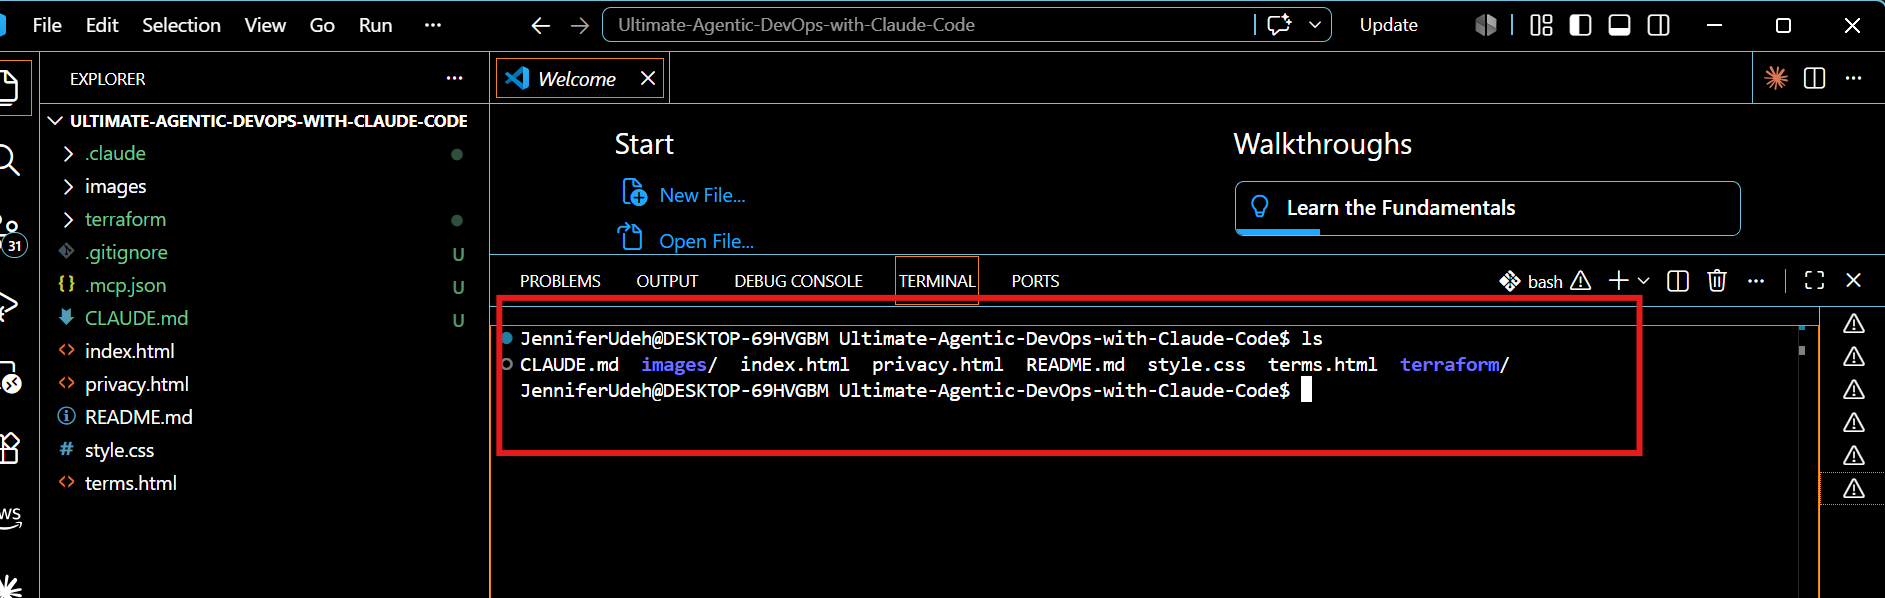
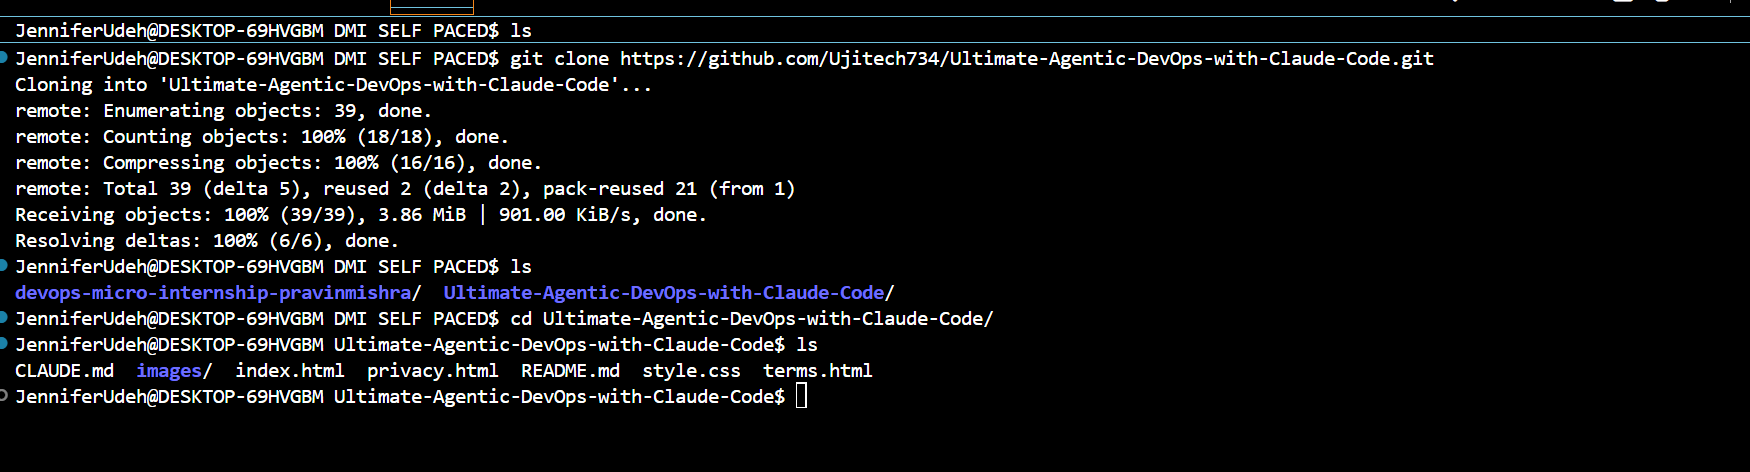
week-02-assignment-2-completed

diff --git a/week-02-agentic-ai/assignment-02-claude-md.md b/week-02-agentic-ai/assignment-02-claude-md.md
@@ -16,11 +16,21 @@ In this assignment, you will create and customize a `CLAUDE.md` file for your pr
 
 Capture Claude’s response before `CLAUDE.md` exists in the project to establish a baseline behavior.
 
-### Evidence
+Before CLAUDE.md file was created. the project only contained the HTML, CSS, and supporting files, Claude provided a generic explanation of the project and a general deployment recommendation without any project-specific context.
+
+What I learned: I learned that without project-specific instructions, Claude relies only on the files it can see and provides generic responses based on the available project structure.
 
 #### Screenshot 1 — Claude’s generic response before CLAUDE.md exists (project contains only `index.html`, `style.css`, `images/`, `README.MD`, `privacy.html`, `terms.html`)
 
-Add your screenshot here.
+![week 2](screenshots/assignment-2-task-1.png).
+
+![week 2](screenshots/assignment-2-task-1-launch-claude.png).
+
+![week 2](screenshots/assignment-2-task-1-response.png).
+
+![week 2](screenshots/assignment-2-task-1-response-2.png).
+
+![week 2](screenshots/assignment-2-task-1-response-3.png).
 
 ---
 
@@ -30,11 +40,19 @@ Add your screenshot here.
 
 Generate an initial `CLAUDE.md` file using the `/init` command and review the auto-generated content.
 
-### Evidence
+The CLAUDE.md file was generated after running the /init command. Claude scanned the project and created the initial project instructions, which I later customized.
+
+What I learned: I learned that the /init command automatically generates a CLAUDE.md file by analyzing the project, providing a solid starting point that can be tailored to the project's requirements.
 
 #### Screenshot 2 — The auto-generated CLAUDE.md open in VS Code showing its content
 
-Add your screenshot here.
+![week 2](screenshots/assignmen-2-task-2-claude-init.png).
+
+![week 2](screenshots/assignment-2-task-2-claude-response.png).
+
+![week 2](screenshots/assignment-2-task-2-claude-response2.png).
+
+![week 2](screenshots/assignment-2-task-2-claude-response3.png).
 
 ---
 
@@ -44,11 +62,13 @@ Add your screenshot here.
 
 Update the generated `CLAUDE.md` file by adding project-specific instructions across all required sections.
 
-### Evidence
+The CLAUDE.md file was updated and customised which includes the Project Overview, Architecture, Commands, Conventions, and Safety sections with project-specific instructions.
+
+What I learned: I learned that customizing CLAUDE.md allows me to define how Claude should understand the project, recommend deployment strategies, follow development conventions, and respect project-specific constraints.
 
 #### Screenshot 3 — Your customized CLAUDE.md in VS Code showing all 5 sections (scroll to show the full file)
 
-Add your screenshot here.
+![week 2](screenshots/assignment-2-task-3-updated-claude.md-file.png).
 
 ---
 
@@ -58,18 +78,25 @@ Add your screenshot here.
 
 Verify that Claude’s behavior changes after adding `CLAUDE.md` by running a new session and comparing responses before and after context is applied.
 
-### Evidence
+After updating the Claude.md file, Claude read the customized CLAUDE.md and changed its behaviour accordingly. Instead of giving a generic response, it identified the project as a static HTML/CSS portfolio website and recommended deployment using Amazon S3, CloudFront, Terraform, and GitHub Actions, as defined in the project instructions.
+
+What I learned: I learned that CLAUDE.md acts as persistent project context, enabling Claude to provide responses that are more accurate, relevant, and aligned with the project's architecture and deployment workflow.
 
 #### Screenshot 4 — Claude's specific, detailed answer after reading CLAUDE.md (Claude mentioning S3, CloudFront and Terraform)
 
-Add your screenshot here.
+![week 2](screenshots/assignment-2-task-4-claude-response.png).
+
+![week 2](screenshots/assignment-2-task-4-claude-response2.png).
 
 ---
 
 #### Screenshot 5 — Claude refusing or warning against adding React because of the "No JavaScript" convention defined in CLAUDE.md
 
-Add your screenshot here.
+![week 2](screenshots/assignment-2-task-5-test-response.png)
 
+This screenshot shows Claude following the project conventions defined in CLAUDE.md. When asked to add a React component to the homepage, Claude refused or warned against the request because the project explicitly specifies No JavaScript and No framework.
+
+What I learned: I learned that Claude not only understands project documentation but also enforces the rules and constraints defined in CLAUDE.md, helping maintain consistency and prevent changes that violate project standards.
 ---
 
 # Task 5 — Commit and push your changes to your fork in GitHub
@@ -78,11 +105,13 @@ Add your screenshot here.
 
 Commit the `CLAUDE.md` file and push it to your GitHub fork so the project instructions are version-controlled.
 
-### Evidence
+The customized CLAUDE.md file was successfully committed, pushed to the GitHub repository, and is visible in the project root, verifying that the project instructions are version-controlled.
+
+What I learned: I learned the importance of version-controlling project documentation so that project instructions evolve alongside the codebase and remain accessible to all collaborators and AI assistants.
 
 #### Screenshot 6 — `CLAUDE.md` visible in your GitHub repository after pushing the commit
 
-Add your screenshot here.
+![week 2](screenshots/assignment-2-task-6-pushed-claude.md-file.png).
 
 ---
 
@@ -98,7 +127,7 @@ Add your screenshot here.
 
 Paste your forked repository URL here:
 
-`Add your URL here`
+`https://github.com/Ujitech734/Ultimate-Agentic-DevOps-with-Claude-Code.git`
 
 ---
 
